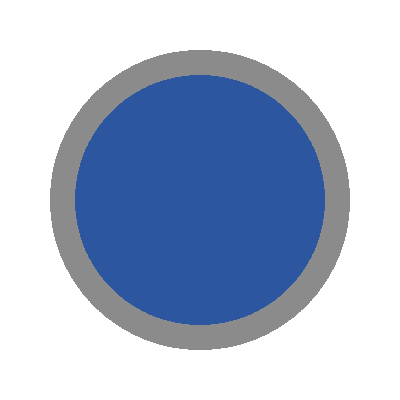
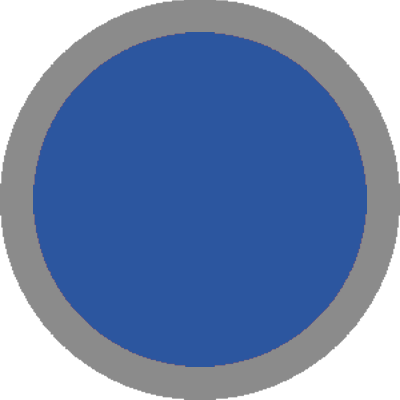
fixed node sprite size

diff --git a/constants.h b/constants.h
@@ -8,7 +8,7 @@ namespace constants {
 
     const int SCREEN_HEIGHT = 1200;
     const int SCREEN_WIDTH = 1600;
-    const float NODE_SCALE = 0.2;
+    const float NODE_SCALE = 0.3;
     const sf::Vector2f off_screen(-100, -100);
 
     const float PLAYER_SCALE = 0.1;
